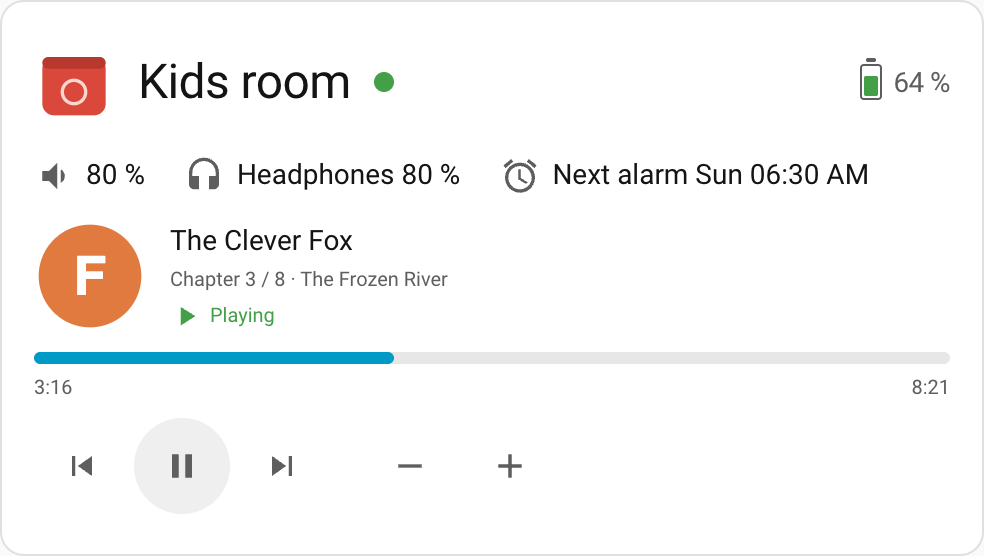
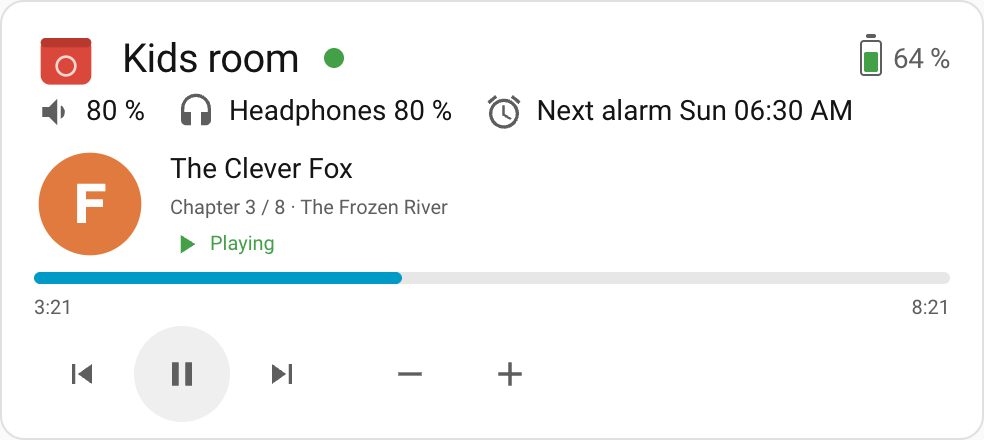
Dashboard card lays itself out by its width
Side by side from 600 px, so it fits a wide, low tile such as half of the
wall display (748 x 262 px); stacked and tighter below, still whole at
370 x 262 px; compact under 300 px. Any width from a quarter of a section
on, half by default, height by content. The page checks build the card in
these three sizes.

diff --git a/custom_components/storybox_plus/frontend/storybox-plus-card.js b/custom_components/storybox_plus/frontend/storybox-plus-card.js
@@ -17,10 +17,42 @@ const REFRESH = 30000;
 // A changed entity is asked about after this pause, so a burst of changes asks once (ms)
 const SETTLE = 400;
 
-// The page's sheet, without its full-window frame
+// The page's sheet, without its full-window frame, and the card's own layouts by its
+// width: side by side from 600 px (a wide, low tile such as half of a wall display),
+// stacked below, compact under 300 px (a quarter of a sections view)
 const CARD_STYLE = `
   :host { display: block; height: auto; background: none; }
-  ha-card { height: 100%; }
+  ha-card { height: 100%; container-type: inline-size; overflow: hidden; }
+  .box-body { display: grid; grid-template-columns: minmax(0, 1fr); grid-template-areas: "facts" "now" "ctl"; }
+  .box-body > .facts { grid-area: facts; }
+  .box-body > .now { grid-area: now; min-width: 0; }
+  .box-body > .ctl { grid-area: ctl; min-width: 0; }
+  @container (min-width: 600px) {
+    .box-body { grid-template-columns: minmax(0, 1fr) minmax(0, 1fr); grid-template-areas: "now facts" "now ctl";
+      gap: 0 24px; align-items: start; }
+    .box-body > .facts { margin-bottom: 4px; }
+    .box-body > .ctl .controls { margin-top: 0; }
+  }
+  /* Narrower than side by side: a tighter head, spacing and buttons, so the card
+     still fits a low tile such as the third of a wall display (370 x 262 px) */
+  @container (max-width: 599px) {
+    ha-card .card-header { padding: 12px 16px 8px; font-size: 20px; line-height: 28px; }
+    .box-pic { width: 32px; height: 32px; }
+    .facts { gap: 4px 16px; margin-bottom: 8px; }
+    .progress { margin-top: 6px; }
+    .controls { margin: 2px 0 0; --mdc-icon-button-size: 40px; }
+    .card-content { padding-bottom: 8px; }
+  }
+  @container (max-width: 299px) {
+    ha-card .card-header { gap: 6px; }
+    .box-pic { width: 28px; height: 28px; }
+    .box-name { font-size: var(--ha-font-size-l, 16px); }
+    .facts { gap: 2px 12px; margin-bottom: 8px; font-size: var(--ha-font-size-s, 13px); }
+    .pic { width: 40px; height: 40px; }
+    .controls { flex-wrap: wrap; gap: 0; }
+    .controls .ctl-gap { display: none; }
+    .sleep-pick { display: none; }
+  }
 `;
 
 const texts = (hass) => ((hass?.locale?.language || hass?.language || "en").toLowerCase().startsWith("de") ? TEXTS.de : TEXTS.en);
@@ -94,8 +126,9 @@ if (!customElements.get(CARD)) {
       return 4;
     }
 
+    // Any width from a quarter of a section on; the height follows the content
     getGridOptions() {
-      return { columns: 12, min_columns: 6 };
+      return { columns: 6, min_columns: 3, rows: "auto" };
     }
 
     async _load() {

diff --git a/custom_components/storybox_plus/frontend/storybox-plus-common.js b/custom_components/storybox_plus/frontend/storybox-plus-common.js
@@ -748,8 +748,12 @@ export const BoxView = (Base) => class extends Base {
       }
       if (b.night?.mode?.enabled && b.night.phase === "night" && show("night_mode")) facts.push(this._chip(t.nightMode, "on"));
       let body = facts.length ? `<div class="facts">${facts.join("")}</div>` : "";
-      if (live) body += (show("playback") ? this._playback(b.playback) : "") + (show("controls") ? this._controls(b) : "");
-      else body += `<div class="muted">${esc(t.classicNote)}</div>`;
+      if (live) {
+        // In parts the dashboard card can lay out side by side when it is wide
+        const now = show("playback") ? `<div class="now">${this._playback(b.playback)}</div>` : "";
+        const ctl = show("controls") ? this._controls(b) : "";
+        body = `<div class="box-body">${body}${now}${ctl ? `<div class="ctl">${ctl}</div>` : ""}</div>`;
+      } else body += `<div class="muted">${esc(t.classicNote)}</div>`;
       const notes = [];
       if (!live && b.last_seen) notes.push(fill(t.lastSeen, { t: this._relative(b.last_seen) }));
       if (notes.length) body += `<div class="muted small">${esc(notes.join(" · "))}</div>`;

diff --git a/scripts/panel/check_panel.py b/scripts/panel/check_panel.py
@@ -1547,6 +1547,39 @@ async def check_page(browser: Browser, instance: Instance, api: Api, shots: Path
                 },
                 f"editor wrote {written}",
             )
+            # Laid out by its width: side by side in half of a wall display (748 x 262 px),
+            # stacked and still whole in a third of it (370 x 262 px), compact in a quarter
+            for width, height, columns in ((748, 262, 2), (370, 262, 1), (200, 0, 1)):
+                size = await user.evaluate(
+                    """async ([player, w, h]) => {
+                      const box = document.createElement("div");
+                      box.id = "card-size";
+                      box.style.cssText = `position:fixed;left:0;top:0;width:${w}px;` +
+                        (h ? `height:${h}px;` : "") + "z-index:99";
+                      const card = document.createElement("storybox-plus-box-card");
+                      card.setConfig({ type: "custom:storybox-plus-box-card", entity: player });
+                      box.appendChild(card);
+                      document.body.appendChild(box);
+                      card.hass = document.querySelector("home-assistant").hass;
+                      await new Promise((r) => setTimeout(r, 1500));
+                      const root = card.shadowRoot;
+                      const result = {
+                        content: root.querySelector("ha-card").scrollHeight,
+                        columns: getComputedStyle(root.querySelector(".box-body"))
+                          .gridTemplateColumns.split(" ").length,
+                        buttons: root.querySelectorAll(".controls ha-icon-button").length,
+                      };
+                      return result;
+                    }""",
+                    [player, width, height],
+                )
+                if shots is not None and width == 748:
+                    await user.locator("#card-size").screenshot(path=str(shots / "card-wide.png"))
+                await user.evaluate("document.getElementById('card-size').remove()")
+                expect(size["columns"] == columns, f"{width} px: {size}")
+                expect(size["buttons"] == 5, f"{width} px without its buttons: {size}")
+                if height:
+                    expect(size["content"] <= height, f"{width} x {height} px overflows: {size}")
             offered = await user.evaluate("(window.customCards || []).map((c) => c.type)")
             expect("storybox-plus-box-card" in offered, f"not in the card picker: {offered}")
             if shots is not None:

diff --git a/CHANGELOG.md b/CHANGELOG.md
@@ -8,7 +8,7 @@ All notable changes to this project are documented here. The format follows
 
 ### Added
 
-- A dashboard card for a Toniebox 2, `custom:storybox-plus-box-card`: the live state and the buttons of the page's card, without settings, bedtimes or charge history. It loads with the integration and is open to every user who may read the box's media player; its data come from the new command `storybox_plus/box/card`, its buttons are the media player's actions. Options `show_picture`, `show_battery`, `show_volume`, `show_headphones`, `show_sleep_timer`, `show_next_alarm`, `show_night_mode`, `show_playback` and `show_controls` leave parts out; the editor offers them as switches.
+- A dashboard card for a Toniebox 2, `custom:storybox-plus-box-card`: the live state and the buttons of the page's card, without settings, bedtimes or charge history. It loads with the integration and is open to every user who may read the box's media player; its data come from the new command `storybox_plus/box/card`, its buttons are the media player's actions. Options `show_picture`, `show_battery`, `show_volume`, `show_headphones`, `show_sleep_timer`, `show_next_alarm`, `show_night_mode`, `show_playback` and `show_controls` leave parts out; the editor offers them as switches. The card takes any width from a quarter of a section on and lays itself out by it: side by side from 600 px (fits 748 × 262 px), stacked and tighter below (fits 370 × 262 px), compact under 300 px.
 
 ## [0.9.0] - 2026-11-13
 

diff --git a/README.md b/README.md
@@ -296,6 +296,10 @@ Each part can be left out, in the card's editor or in its YAML; all of them show
 
 The name and the dot for online or offline always show.
 
+The card takes any width from a quarter of a section on (half by default); its height follows the content. It lays itself out by the width it gets: from 600 px what plays stands beside the facts and buttons, so it fits a wide, low tile such as half of a wall display (748 × 262 px); narrower it stacks, tighter, and still fits 370 × 262 px; under 300 px it is compact.
+
+<img src="docs/screenshots/card-wide.png" alt="The dashboard card at 748 by 262 pixels: name, online dot and battery in the head; on the left the figure that plays with its progress, on the right volume, headphones, the next alarm and the buttons" width="600">
+
 Every user who may read the box's media player sees the card, not only administrators; the buttons are the media player's actions and `storybox_plus.set_sleep_timer`. The card asks the integration again when the media player changes and every 30 seconds.
 
 ## Examples
